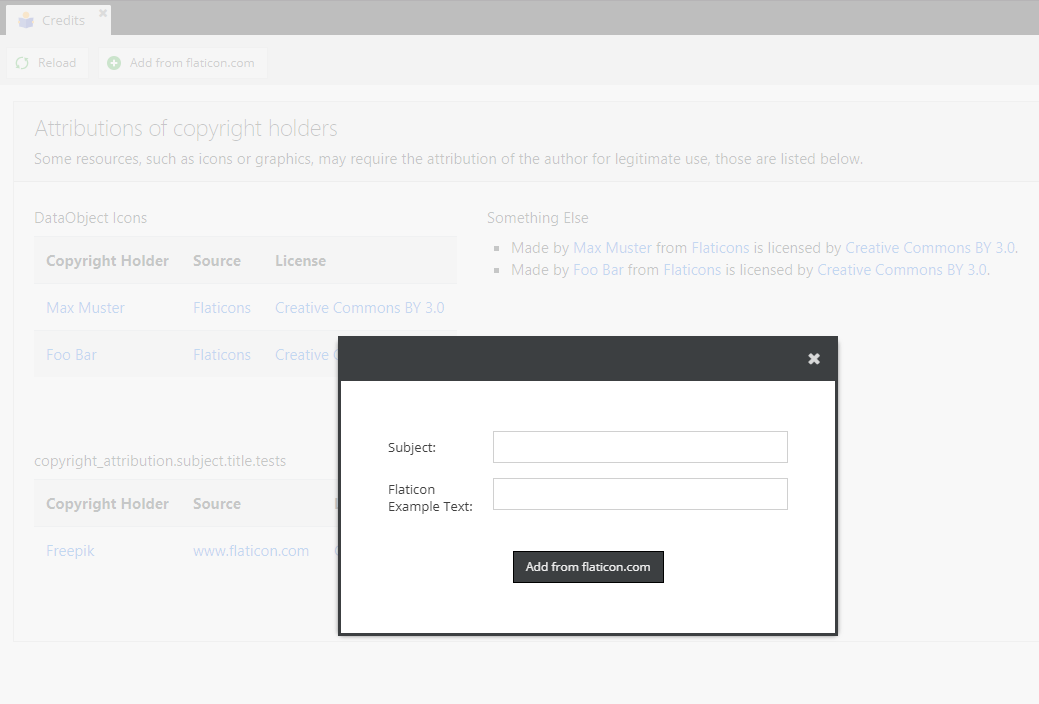
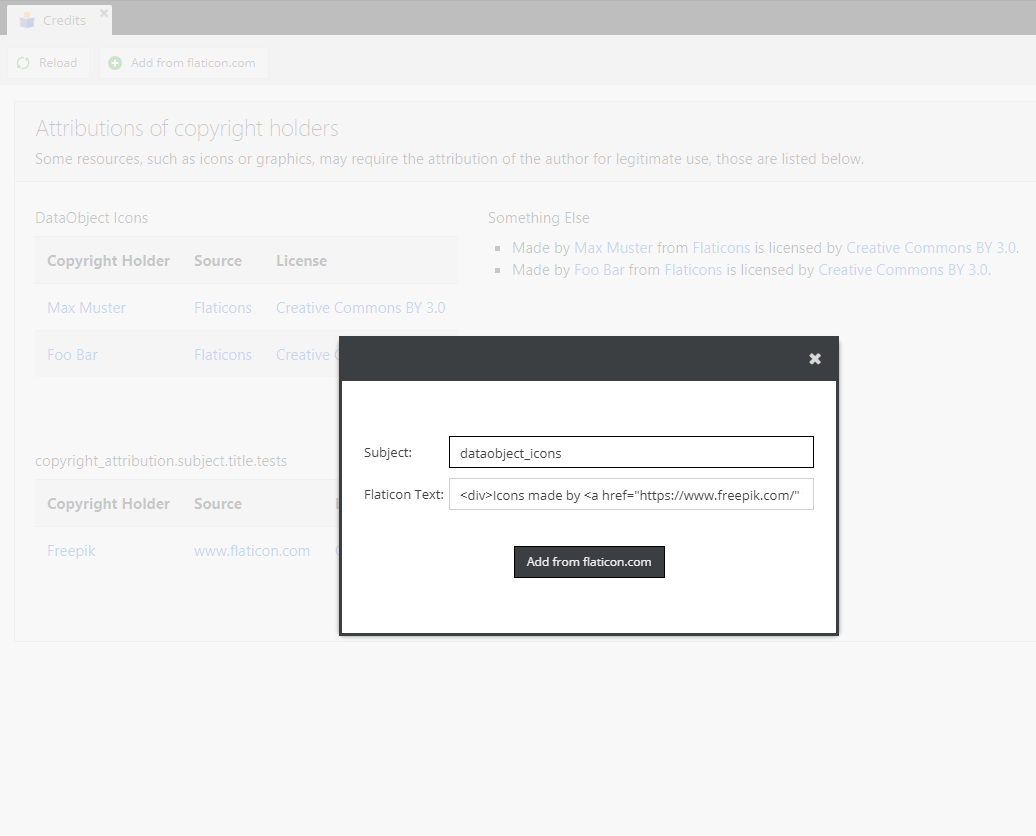
adjust translations and screenshot

diff --git a/src/CopyrightAttributionBundle/Resources/public/js/pimcore/authorCreditsTab.js b/src/CopyrightAttributionBundle/Resources/public/js/pimcore/authorCreditsTab.js
@@ -20,7 +20,7 @@ pimcore.bundle.CopyrightAttributionBundle.Tab = Class.create({
             });
 
             this.flaticonButton = new Ext.Button({
-                text: t("add-flaticon"),
+                text: t("copyright_attribution.add-flaticon"),
                 iconCls: "pimcore_icon_add",
                 handler: this.addFlaticon.bind(this)
             });
@@ -81,7 +81,7 @@ pimcore.bundle.CopyrightAttributionBundle.Tab = Class.create({
                         },
                         fieldDefaults: {
                             msgTarget: 'side',
-                            labelWidth: 100
+                            labelWidth: 80
                         },
                         items: [
                             {
@@ -95,20 +95,20 @@ pimcore.bundle.CopyrightAttributionBundle.Tab = Class.create({
                                 items: [
                                     {
                                         xtype: 'textfield',
-                                        width: 400,
+                                        width: 450,
                                         fieldLabel: t("copyright_attribution.subject"),
                                         id: this.layout.id + "_subject"
                                     },
                                     {
                                         xtype: 'textfield',
-                                        width: 400,
+                                        width: 450,
 
                                         fieldLabel: t("copyright_attribution.flaticon-text"),
                                         id: this.layout.id + "_flaticon-text"
                                     },
                                     {
                                         xtype: 'button',
-                                        text: t("add-flaticon"),
+                                        text: t("copyright_attribution.add-flaticon"),
                                         style: "margin-top: 2em",
                                         handler: function (btn, e) {
 
